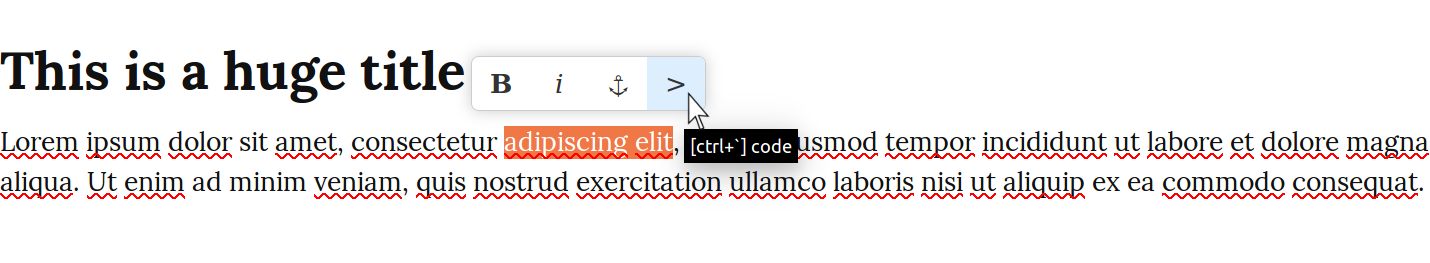
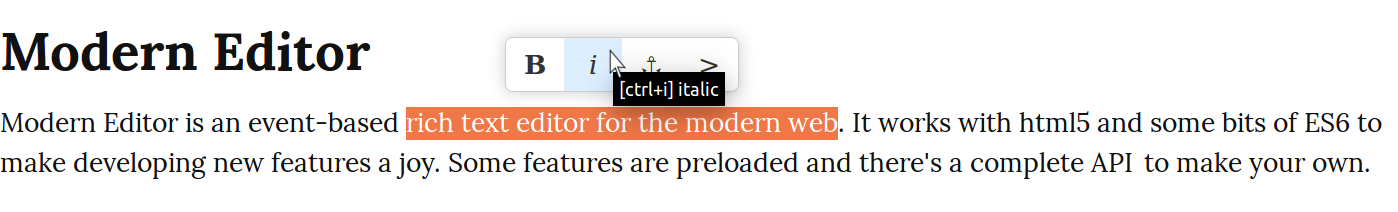
Changed screenshot to actually have content

Changed region(s): [[0.0, 0.1415, 1.0, 0.8491]]

diff --git a/index.html b/index.html
@@ -10,8 +10,8 @@
   <body>
 
     <article contenteditable="true">
-      <h1>This is a huge title</h1>
-      <p>Lorem ipsum dolor sit amet, consectetur adipiscing elit, sed do eiusmod tempor incididunt ut labore et dolore magna aliqua. Ut enim ad minim veniam, quis nostrud exercitation ullamco laboris nisi ut aliquip ex ea commodo consequat.</p>
+      <h1>Modern Editor</h1>
+      <p>This is an event-based rich text editor for the modern web. It has html5 compliance and some sparks of ES6 to make developing new features a joy. Some features are pre-loaded and there's a complete API so you can develop your own.</p>
       
       <h2>Known bugs</h2>
       <ul>
